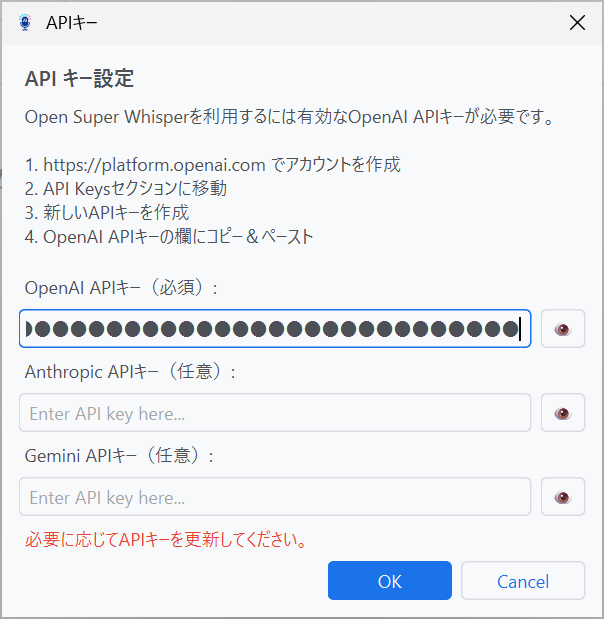
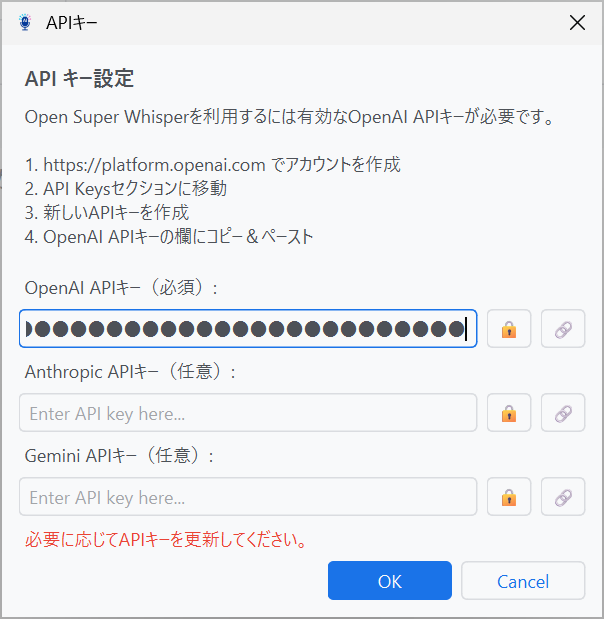
Update RELEASE.md for v1.3.0, adding new features, improvements, installation instructions, and documentation links in both English and Japanese. Update binary images for API key and wakeup functionalities.

diff --git a/docs/RELEASE.md b/docs/RELEASE.md
@@ -1,5 +1,89 @@
 # Release Notes - Open Super Whisper V2
 
+## 🎉 v1.3.0 Release
+
+### 🆕 What's New in v1.3.0
+
+- 🔗 **API Connection Test**: Added connection test buttons for all API providers in the API Key settings dialog
+
+### ✨ Features
+
+- 🎙 Global hotkey voice recording
+- 📝 High-accuracy speech recognition with OpenAI Speech to text API
+- 🤖 AI agent support (OpenAI + Claude + Gemini) with OpenAI Agents SDK
+- 🔌 Extensibility via MCP (Model Context Protocol)
+- 📋 Automatic clipboard integration
+- 🎯 System tray operation
+
+### 🔧 Improvements
+
+- Enhanced API Key dialog with individual connection testing for each provider
+
+### 📦 Installation
+
+1. Download `OpenSuperWhisper.exe`
+2. Run the executable
+3. Configure your OpenAI API key (required)
+4. Optionally configure Claude/Gemini API keys for additional AI models
+5. Use the 🔗 buttons to test your API connections
+6. Start using!
+
+### 📖 Documentation
+
+- [README (English)](README.md)
+- [README (Japanese)](README_ja.md)
+- [User Manual (English)](MANUAL.md)
+- [User Manual (Japanese)](MANUAL_ja.md)
+
+### ⚖ License
+
+This software is licensed under GPL v3.0
+
+---
+
+## 🎉 v1.3.0 リリース
+
+### 🆕 v1.3.0 の新機能
+
+- 🔗 **API 接続テスト**: API キー設定ダイアログに全 API プロバイダーの接続テストボタンを追加
+
+### ✨ 機能
+
+- 🎙 グローバルホットキーによる音声録音
+- 📝 OpenAI Speech to text API による高精度音声認識
+- 🤖 OpenAI Agents SDK による AI エージェント対応（OpenAI + Claude + Gemini）
+- 🔌 MCP (Model Context Protocol) による拡張性
+- 📋 自動クリップボード連携
+- 🎯 システムトレイ動作
+
+### 🔧 改善点
+
+- 各プロバイダーの個別接続テスト機能を持つ API キーダイアログの強化
+
+### 📦 インストール
+
+1. `OpenSuperWhisper.exe` をダウンロード
+2. 実行ファイルを起動
+3. OpenAI API キーを設定（必須）
+4. 必要に応じて Claude/Gemini API キーを設定
+5. 🔗 ボタンで API 接続をテスト
+6. 使用開始！
+
+### 📖 ドキュメント
+
+- [README (English)](README.md)
+- [README (Japanese)](README_ja.md)
+- [ユーザーマニュアル (English)](MANUAL.md)
+- [ユーザーマニュアル (Japanese)](MANUAL_ja.md)
+
+### ⚖ ライセンス
+
+このソフトウェアは GPL v3.0 ライセンスの下で提供されています
+
+---
+
+---
+
 ## 🎉 v1.2.0 Release
 
 ### 🆕 What's New in v1.2.0
